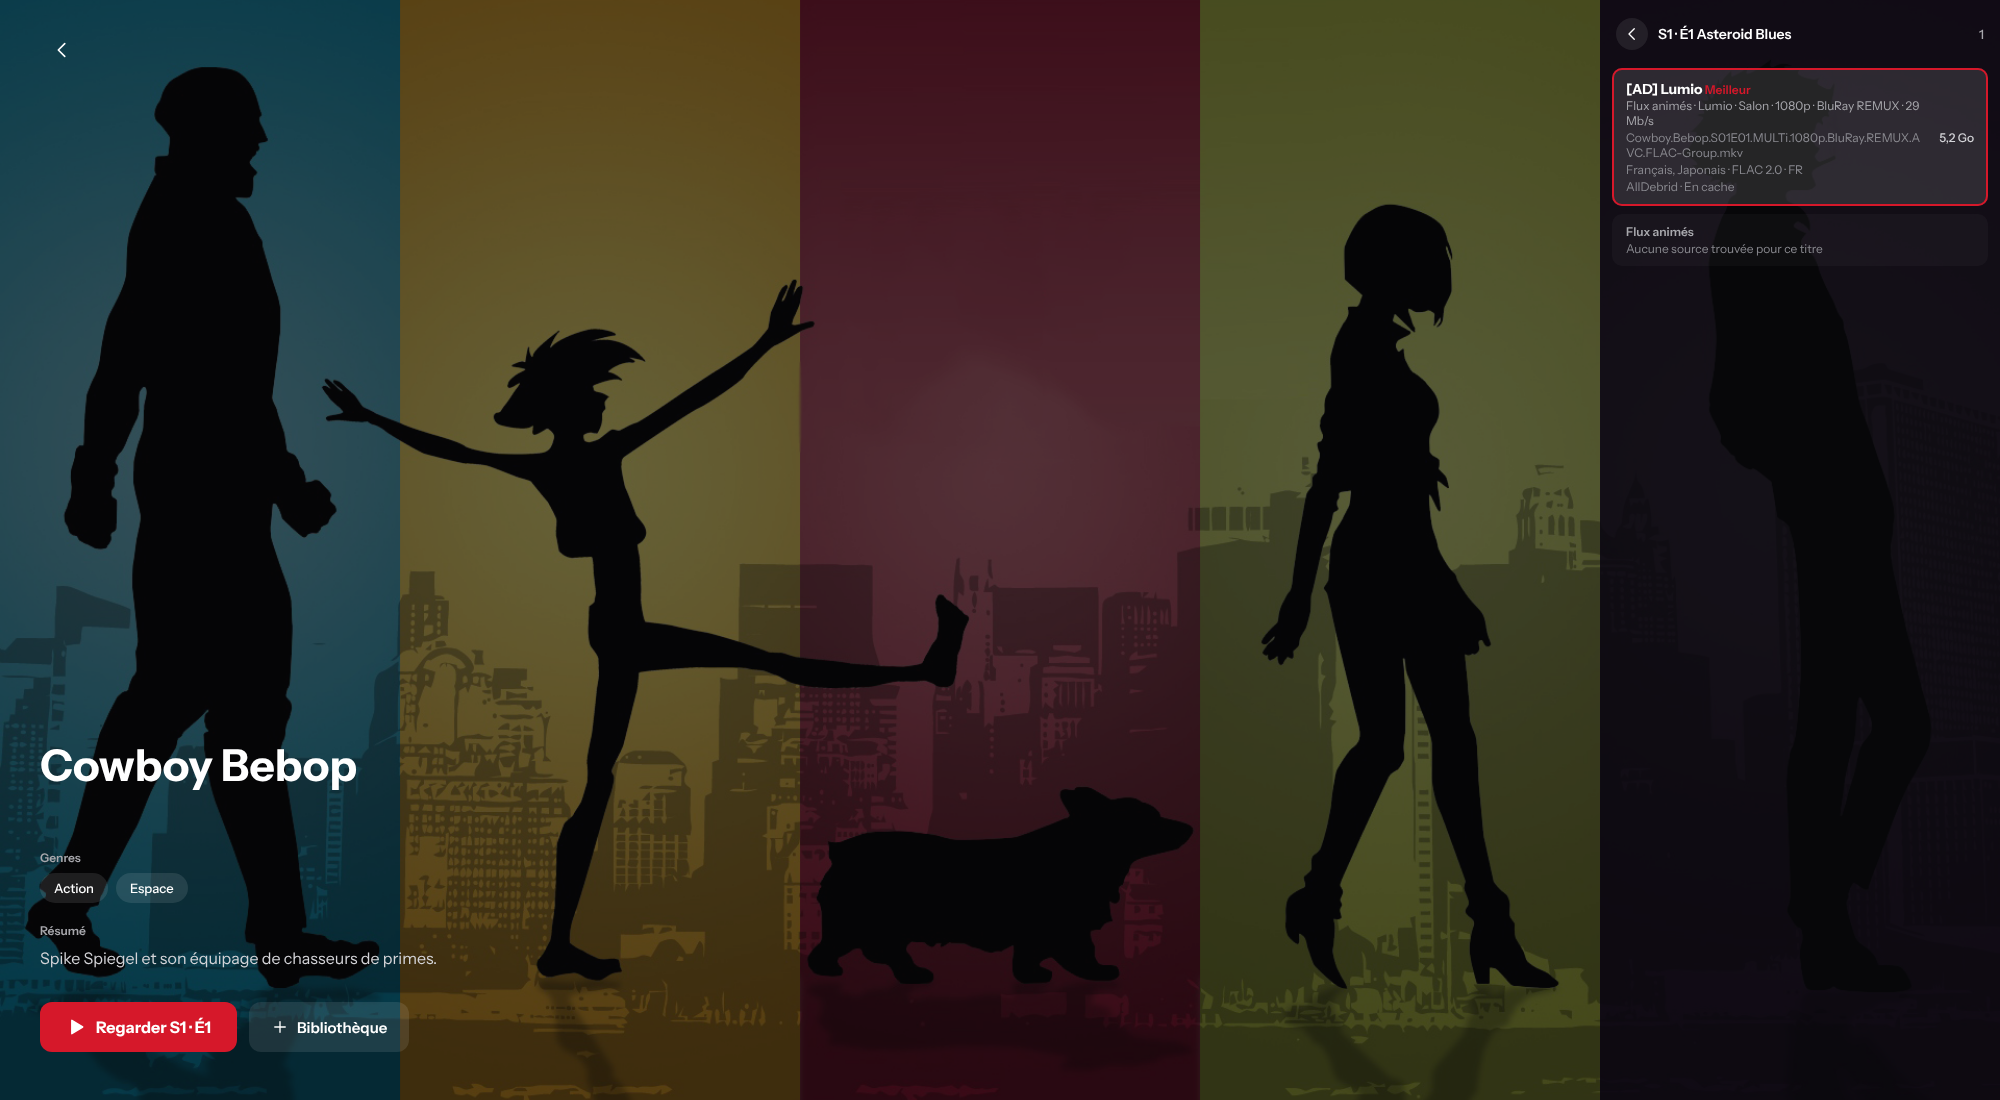
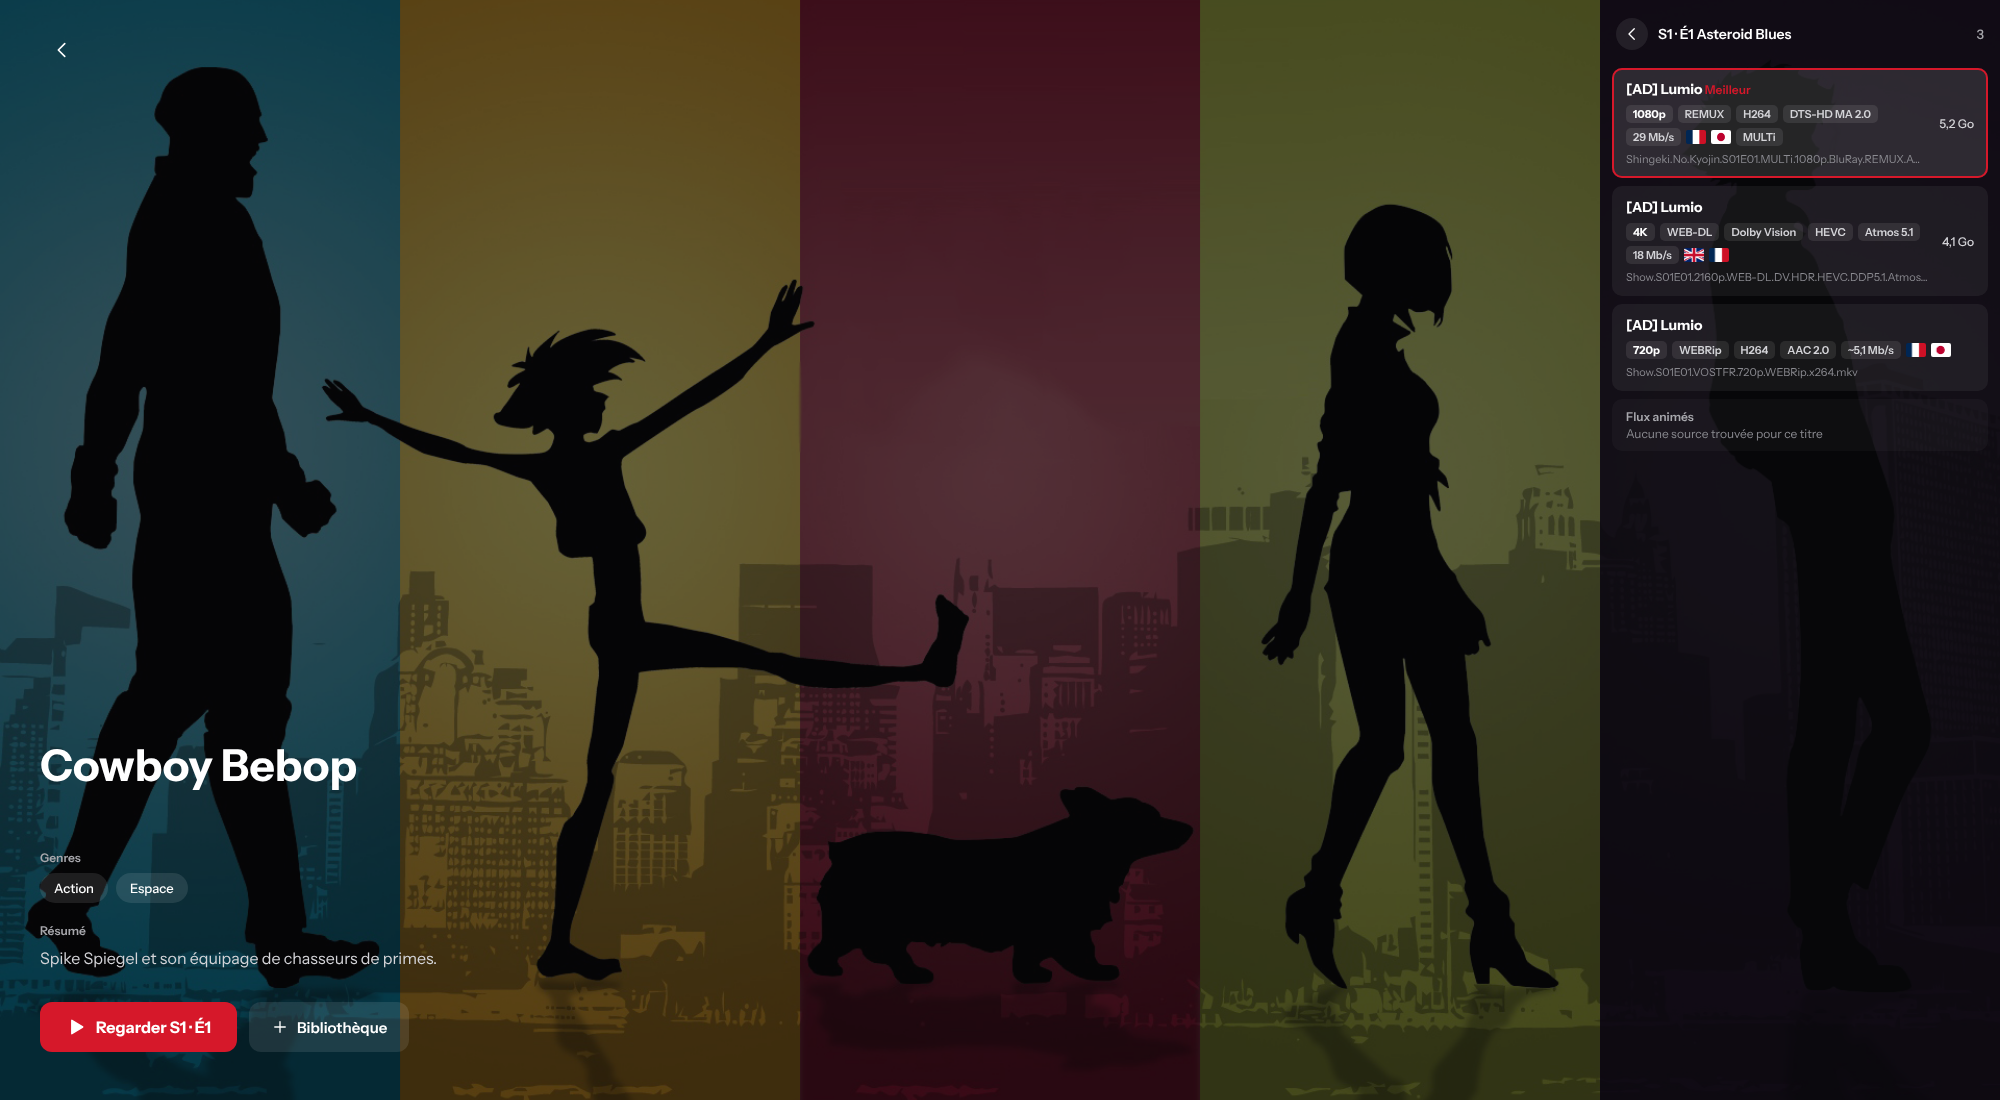
feat: pastilles et drapeaux sur les flux
Claude-Session: https://claude.ai/code/session_01P7SA2WFHsMrWgkBS6DGMEx

Changed region(s): [[0.806, 0.0927, 1.0, 0.2782], [0.806, 0.2782, 0.992, 0.34], [0.806, 0.3709, 0.899, 0.4018]]

diff --git a/app/src/lib/addons.ts b/app/src/lib/addons.ts
@@ -143,6 +143,30 @@ export async function fetchStreamsFor(addons: Addon[], type: string, id: string,
 const clean = (s = "") => s.replace(/\p{Extended_Pictographic}|/gu, "").replace(/[ \t]+/g, " ").trim();
 const SIZE = /(\d+(?:[.,]\d+)?)\s?(GB|MB|Go|Mo|GiB|MiB)\b(?!\/s)/i; // pas un débit (« 29 Mb/s »)
 
+// Repères lus dans le texte et le nom du fichier, dans l'ordre d'affichage. Le premier qui correspond dans un groupe gagne.
+const TAGS: [RegExp, string][][] = [
+  [[/\b(2160p|4k|uhd)\b/i, "4K"], [/\b1440p\b/i, "1440p"], [/\b1080p\b/i, "1080p"], [/\b720p\b/i, "720p"], [/\b(576|480)p\b/i, "SD"]],
+  [[/\bremux\b/i, "REMUX"], [/\bblu-?ray\b/i, "BluRay"], [/\bweb-?dl\b/i, "WEB-DL"], [/\bweb-?rip\b/i, "WEBRip"], [/\bbr-?rip\b/i, "BRRip"], [/\bhdtv\b/i, "HDTV"]],
+  [[/\b(dv|dovi|dolby ?vision)\b/i, "Dolby Vision"], [/\bhdr10\+/i, "HDR10+"], [/\bhdr(10)?\b/i, "HDR"]],
+  [[/\b(hevc|[xh]\.?265)\b/i, "HEVC"], [/\bav1\b/i, "AV1"], [/\b(avc|[xh]\.?264)\b/i, "H264"]],
+  [[/\batmos\b/i, "Atmos"], [/\btrue-?hd\b/i, "TrueHD"], [/\bdts-?hd[ .-]?ma\b/i, "DTS-HD MA"], [/\bdts(-?x)?\b/i, "DTS"], [/\b(ddp|dd\+|e-?ac-?3)/i, "DD+"], [/\b(ac-?3|DD)\b/, "AC3"], [/\bflac\b/i, "FLAC"], [/\b(aac|opus)\b/i, "AAC"]],
+];
+const FR_WORDS = /\b(vff|vfq|vfi|vf2|truefrench|french|vostfr)\b/i;
+
+/** Pastilles (qualité, source, HDR, codec, audio, débit) et langues (codes pays des drapeaux) d'un flux. */
+export function streamTags(s: Pick<Stream, "name" | "title" | "description" | "behaviorHints">) {
+  const raw = [s.name, s.title ?? s.description, s.behaviorHints?.filename].filter(Boolean).join("\n");
+  const chips = TAGS.map(group => group.find(([re]) => re.test(raw))?.[1]).filter((t): t is string => !!t);
+  const ch = raw.match(/\b([257]\.1|2\.0)\b/)?.[1];
+  if (ch && chips.length && /Atmos|TrueHD|DTS|DD|AC3|FLAC|AAC/.test(chips[chips.length - 1])) chips[chips.length - 1] += ` ${ch}`;
+  const rate = raw.match(/~?\d+(?:[.,]\d+)?\s?Mb\/s/i)?.[0];
+  if (rate) chips.push(rate.replace(/\s/, " "));
+  // Drapeaux : deux « lettres régionales » Unicode → code pays (Windows les affiche en lettres, d'où les images).
+  const langs = [...raw.matchAll(/([\u{1F1E6}-\u{1F1FF}])([\u{1F1E6}-\u{1F1FF}])/gu)].map(m => String.fromCharCode(...[m[1], m[2]].map(c => c.codePointAt(0)! - 0x1F1E6 + 97)));
+  if (FR_WORDS.test(raw)) langs.unshift("fr");
+  return { chips, langs: [...new Set(langs)], multi: /\bmulti\b/i.test(raw) };
+}
+
 /** Ce qu'on affiche d'un flux : qualité, source, détails (le reste du texte de l'addon, comme Stremio), taille, et s'il est lisible (debrid/HTTP). */
 export function describe(s: FoundStream) {
   const nameLines = clean(s.name).split("\n").map(l => l.trim()).filter(Boolean);
@@ -154,6 +178,8 @@ export function describe(s: FoundStream) {
     quality: nameLines.slice(1).join(" · ") || nameLines[0] || "Flux",
     source: [nameLines.length > 1 ? nameLines[0] : s.addon, lines[0]].filter(Boolean).join(" · "),
     details: [...lines.slice(1), ...(file && !text.includes(file) ? [file] : [])],
+    file: file ?? lines.find(l => /\.(mkv|mp4|avi|m2ts|ts|webm)$/i.test(l)),
+    ...streamTags(s),
     size,
     playable: !!s.url,
     external: !s.url && !!s.externalUrl,

diff --git a/app/src/app/title/[type]/[id].tsx b/app/src/app/title/[type]/[id].tsx
@@ -153,8 +153,21 @@ export default function Title() {
                   <Pressable key={i} onPress={() => play(s)} style={({ hovered, focused }: any) => [st.stream, (hovered || focused) && st.streamOn]}>
                     <View style={{ flex: 1 }}>
                       <Text style={font(700, 14)} numberOfLines={1}>{d.quality}{i === 0 ? <Text style={font(600, 12, C.red)}>   Meilleur</Text> : null}</Text>
-                      <Text style={font(400, 12, C.mute)} numberOfLines={2}>{d.external ? "Lien externe · " : ""}{d.source}</Text>
-                      {d.details.map((l, j) => <Text key={j} style={[font(400, 12, C.faint), { marginTop: 2 }]} numberOfLines={2}>{l}</Text>)}
+                      {d.chips.length || d.langs.length ? (
+                        <>
+                          <View style={st.chips}>
+                            {d.chips.map((c, j) => <Text key={c} style={[st.badge, font(j ? 600 : 700, 11, j ? C.soft : C.ink)]}>{c}</Text>)}
+                            {d.langs.map(cc => <Image key={cc} source={`https://flagcdn.com/w40/${cc}.png`} style={st.flag} contentFit="cover" accessibilityLabel={cc.toUpperCase()} />)}
+                            {d.multi ? <Text style={[st.badge, font(600, 11, C.soft)]}>MULTi</Text> : null}
+                          </View>
+                          <Text style={[font(400, 11, C.faint), { marginTop: 6 }]} numberOfLines={1}>{d.file ?? d.source}</Text>
+                        </>
+                      ) : (
+                        <>
+                          <Text style={font(400, 12, C.mute)} numberOfLines={2}>{d.external ? "Lien externe · " : ""}{d.source}</Text>
+                          {d.details.map((l, j) => <Text key={j} style={[font(400, 12, C.faint), { marginTop: 2 }]} numberOfLines={2}>{l}</Text>)}
+                        </>
+                      )}
                     </View>
                     {d.size ? <Text style={font(500, 12, C.soft)}>{d.size}</Text> : null}
                   </Pressable>
@@ -224,6 +237,9 @@ const st = StyleSheet.create({
   tag: { paddingHorizontal: 14, paddingVertical: 7, borderRadius: 999, backgroundColor: "rgba(255,255,255,0.1)" },
   actions: { flexDirection: "row", flexWrap: "wrap", gap: 12, marginTop: 32 },
   row: { flexDirection: "row", alignItems: "center", gap: 8 },
+  chips: { flexDirection: "row", flexWrap: "wrap", alignItems: "center", gap: 5, marginTop: 7 },
+  badge: { paddingHorizontal: 7, paddingVertical: 2, borderRadius: 5, backgroundColor: "rgba(255,255,255,0.09)", overflow: "hidden" },
+  flag: { width: 20, height: 14, borderRadius: 2 },
   play: { height: 50, paddingHorizontal: 26, borderRadius: 12, backgroundColor: C.red, flexDirection: "row", alignItems: "center", gap: 10 },
   ghost: { height: 50, paddingHorizontal: 22, borderRadius: 12, backgroundColor: "rgba(255,255,255,0.1)", justifyContent: "center" },
   side: { width: 400, backgroundColor: "rgba(8,8,10,0.78)" },

diff --git a/app/src/lib/addons.test.ts b/app/src/lib/addons.test.ts
@@ -1,6 +1,6 @@
 import { test } from "node:test";
 import assert from "node:assert/strict";
-import { normalizeUrl, supports, homeCatalogs, searchCatalogs, discoverCatalogs, genreOptions, catalogUrl, configureUrl, describe, imdbEquivalent, type Addon } from "./addons.ts";
+import { normalizeUrl, supports, homeCatalogs, searchCatalogs, discoverCatalogs, genreOptions, catalogUrl, configureUrl, describe, imdbEquivalent, streamTags, type Addon } from "./addons.ts";
 
 test("normalizeUrl accepte les liens tels qu'on les copie", () => {
   assert.equal(normalizeUrl("stremio://torrentio.strem.fun/abc/manifest.json"), "https://torrentio.strem.fun/abc/manifest.json");
@@ -44,7 +44,7 @@ test("describe garde tout le texte de l'addon et ne prend pas un débit pour une
   const d = describe({ addon: "Lumio", url: "https://x", name: "[AD] Lumio", title: "Lumio · 1080p · BluRay · ~5,1 Mb/s\nFrieren.S01E01.MULTi.1080p.mkv\n🔊 FR, JA · AAC 2.0", behaviorHints: { filename: "Frieren.S01E01.MULTi.1080p.mkv" } });
   assert.equal(d.size, "");
   assert.deepEqual(d.details, ["Frieren.S01E01.MULTi.1080p.mkv", "FR, JA · AAC 2.0"]);
-  assert.deepEqual(describe({ addon: "A", url: "https://x", title: "Ligne", behaviorHints: { filename: "f.mkv", videoSize: 2e9 } }), { quality: "Flux", source: "A · Ligne", details: ["f.mkv"], size: "2,0 Go", playable: true, external: false });
+  assert.deepEqual(describe({ addon: "A", url: "https://x", title: "Ligne", behaviorHints: { filename: "f.mkv", videoSize: 2e9 } }), { quality: "Flux", source: "A · Ligne", details: ["f.mkv"], file: "f.mkv", chips: [], langs: [], multi: false, size: "2,0 Go", playable: true, external: false });
 });
 
 test("configureUrl : page de réglages seulement pour les addons configurables", () => {
@@ -70,4 +70,10 @@ test("équivalent IMDb pour les animés Kitsu", () => {
   assert.equal(imdbEquivalent(meta, { id: "kitsu:1:3", episode: 3 }), null); // épisode sans correspondance
   assert.deepEqual(imdbEquivalent({ id: "kitsu:9", imdb_id: "tt0245429" }), { type: "movie", id: "tt0245429" }); // film
   assert.equal(imdbEquivalent({ id: "tt0903747" }), null); // déjà IMDb
+});
+
+test("pastilles et drapeaux d'un flux façon Lumio", () => {
+  const t = streamTags({ name: "[AD] Lumio", title: "Lumio · Salon · 1080p · BluRay REMUX · 29 Mb/s\n🇫🇷 🇯🇵 ✓ · 💾 5,2 Go · 🔍 DMM | YGG\nH264 · DTS-HD MA 2.0", behaviorHints: { filename: "Shingeki.No.Kyojin.S01E01.MULTi.1080p.BluRay.REMUX.AVC.DTS-HDMA.2.0-Psaro.mkv" } });
+  assert.deepEqual(t, { chips: ["1080p", "REMUX", "H264", "DTS-HD MA 2.0", "29 Mb/s"], langs: ["fr", "jp"], multi: true });
+  assert.deepEqual(streamTags({ title: "Film.2160p.WEB-DL.DV.HDR.x265.TrueHD.Atmos.7.1.VFF.mkv" }), { chips: ["4K", "WEB-DL", "Dolby Vision", "HEVC", "Atmos 7.1"], langs: ["fr"], multi: false });
 });
